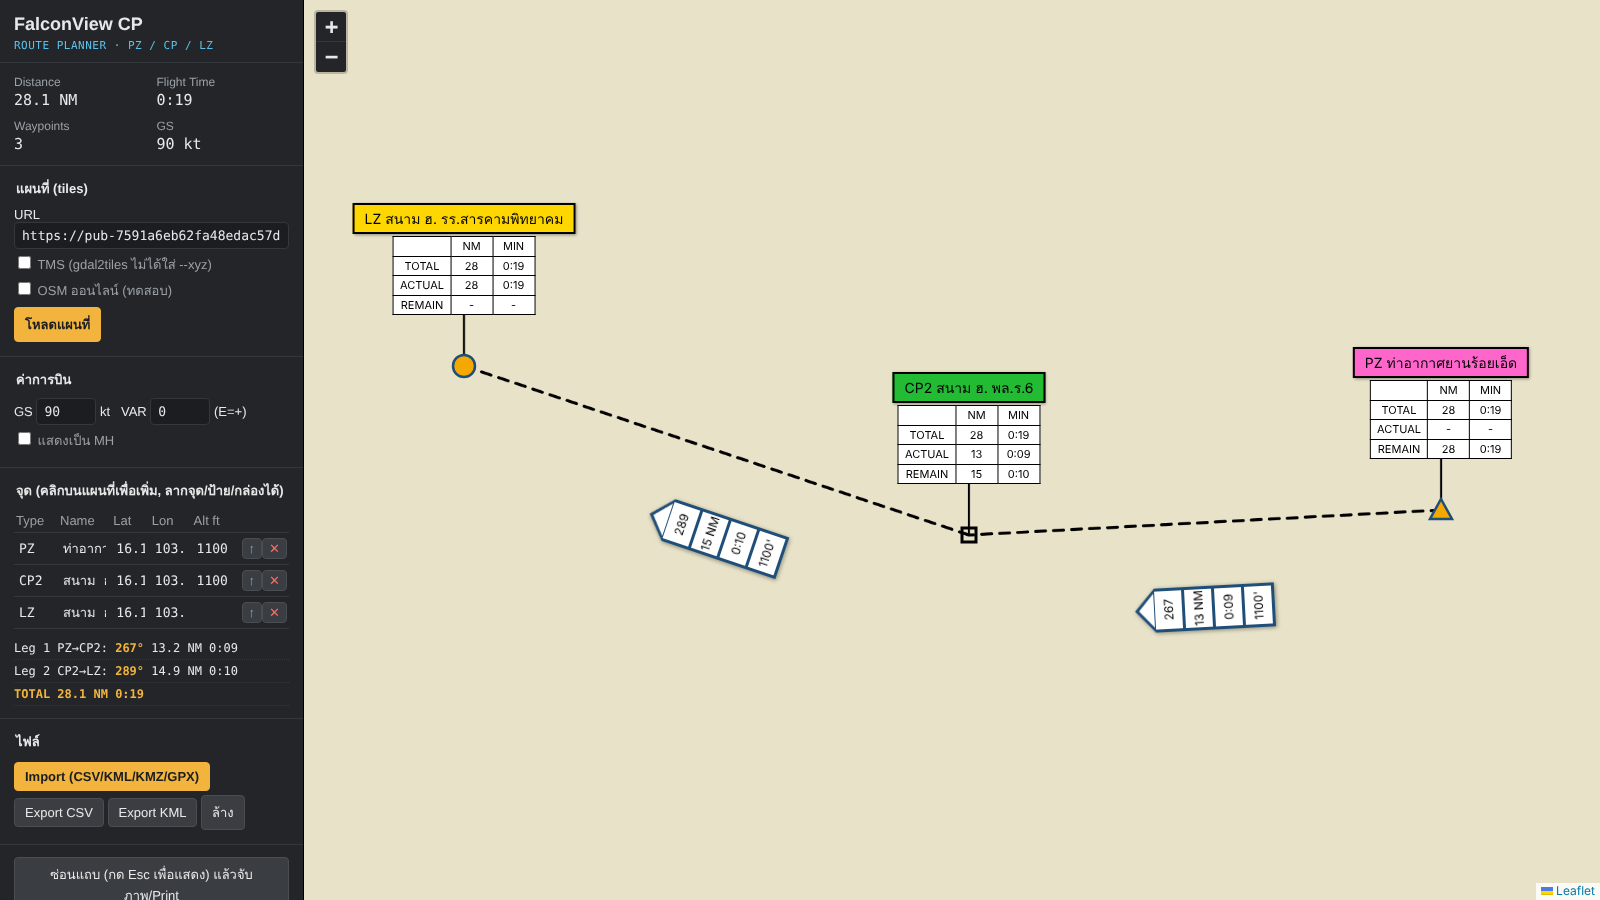
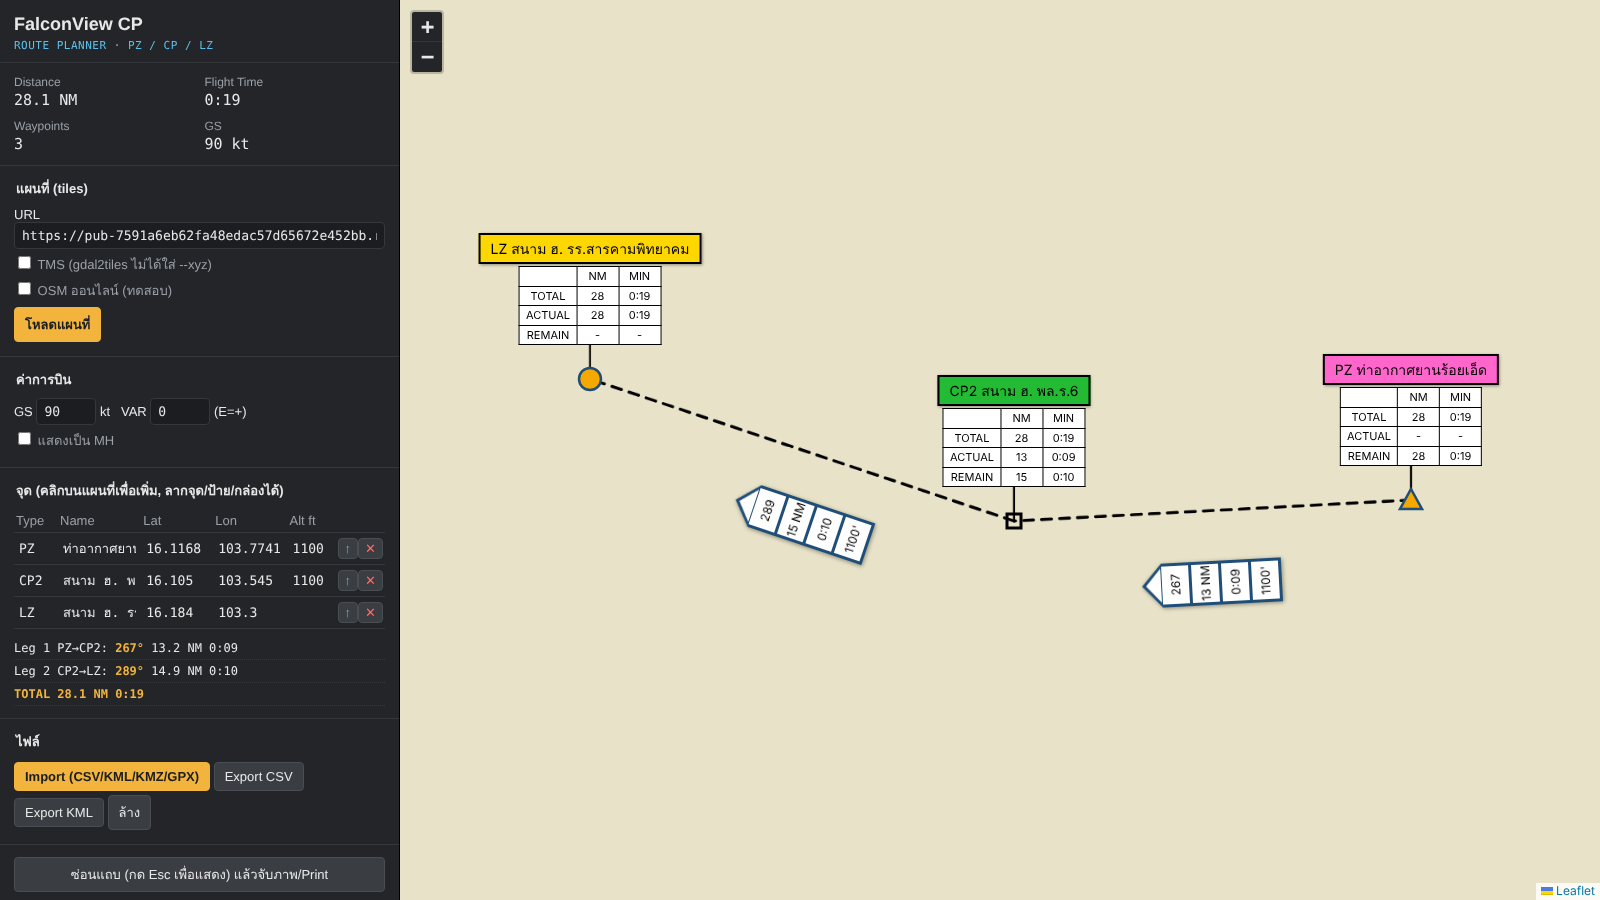
Widen side panel to 25% of screen
Claude-Session: https://claude.ai/code/session_012ocRemoKa6rEqX6mjm8Sz1

diff --git a/index.html b/index.html
@@ -5,7 +5,7 @@
 <style>
 :root{--bd:#1F4E79;--bg:#232529;--bg2:#1b1d20;--ln:#34373c;--tx:#e8e8e8;--mu:#9aa0a6;--au:#F2B43C;--cy:#5BC0EB}
 *{box-sizing:border-box}body{margin:0;font:13px Tahoma,"Leelawadee UI",sans-serif;display:flex;height:100vh;background:var(--bg2);color:var(--tx)}
-#side{width:clamp(300px,19vw,400px);flex:none;overflow:auto;background:var(--bg);border-right:1px solid #000;scrollbar-color:#555 var(--bg)}
+#side{width:clamp(320px,25vw,560px);flex:none;overflow:auto;background:var(--bg);border-right:1px solid #000;scrollbar-color:#555 var(--bg)}
 #map{flex:1;background:#e8e3c8}
 body.hide #side{display:none}
 #hdr{padding:14px 14px 10px;border-bottom:1px solid var(--ln)}#hdr b{font-size:18px}#hdr small{display:block;margin-top:4px;color:var(--cy);font:11px Consolas,monospace;letter-spacing:.5px}
